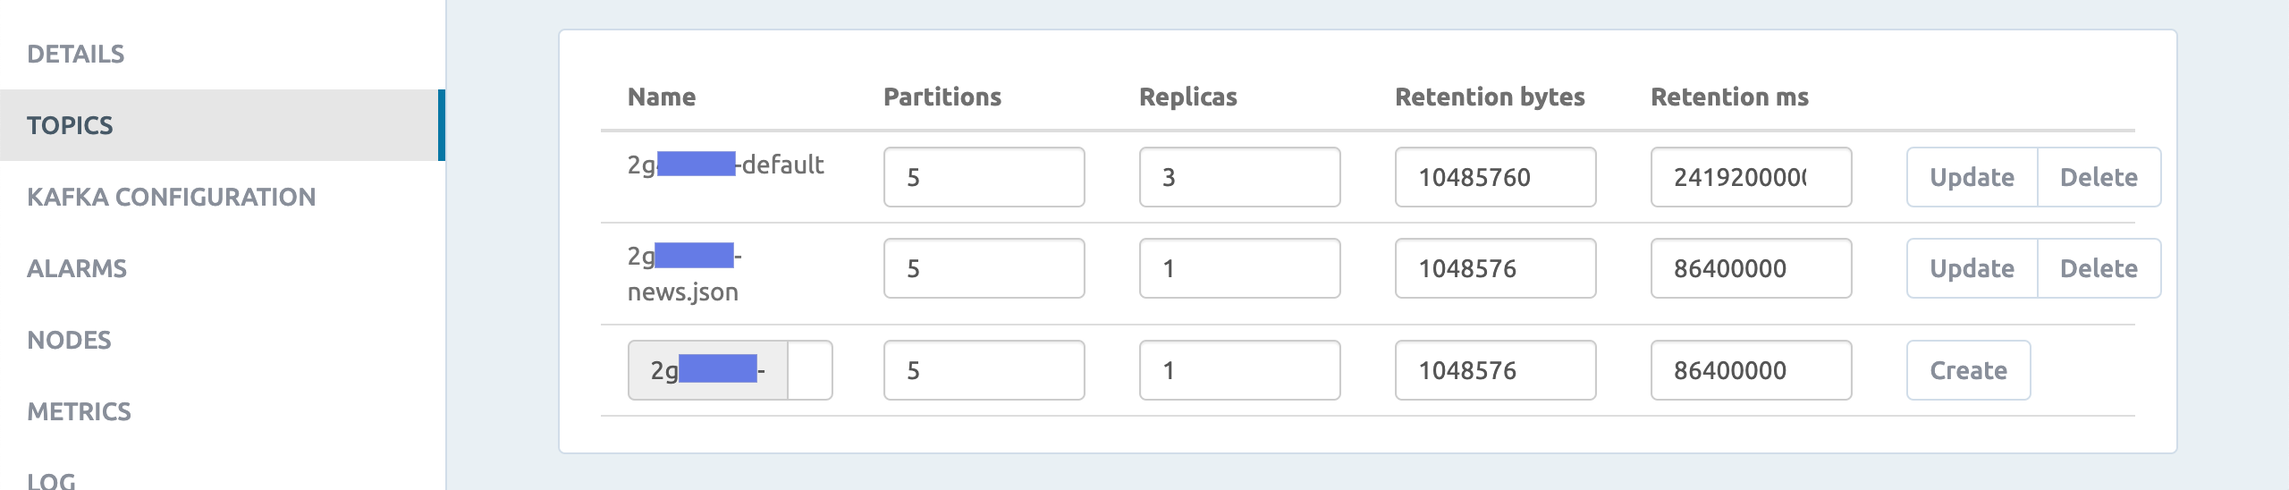
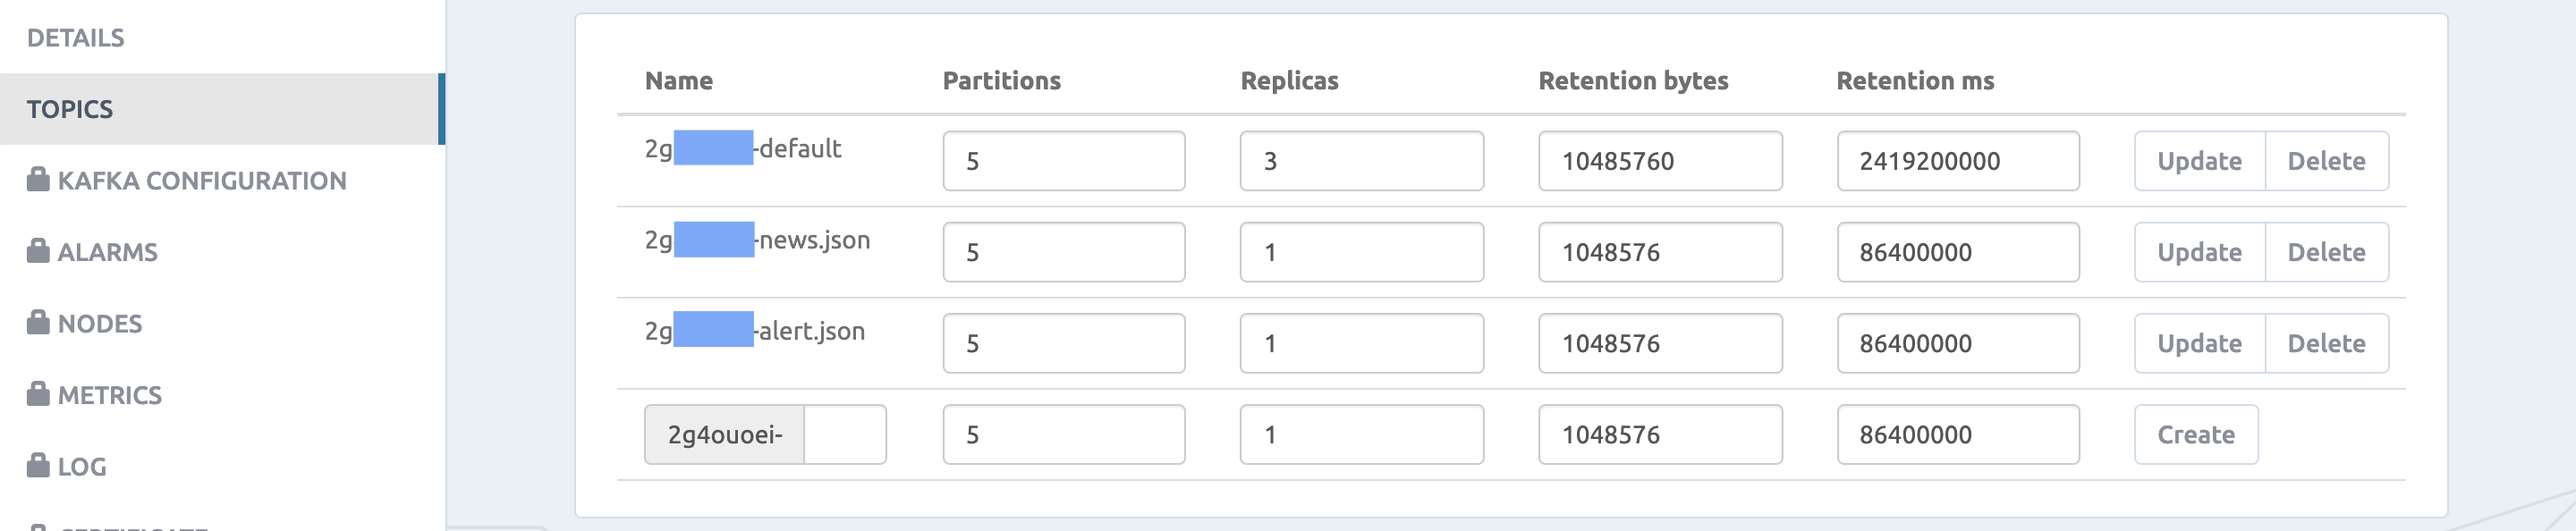
add another Kafka topic called alert

diff --git a/spring-kafka/consumer-kafka/src/main/java/com/mycompany/consumerkafka/kafka/MessageConsumerConfig.java b/spring-kafka/consumer-kafka/src/main/java/com/mycompany/consumerkafka/kafka/MessageConsumerConfig.java
@@ -1,5 +1,6 @@
 package com.mycompany.consumerkafka.kafka;
 
+import com.mycompany.consumerkafka.domain.Alert;
 import com.mycompany.consumerkafka.domain.News;
 import lombok.RequiredArgsConstructor;
 import org.apache.kafka.clients.consumer.ConsumerConfig;
@@ -18,25 +19,40 @@ import java.util.Map;
 @RequiredArgsConstructor
 @EnableKafka
 @Configuration
-public class NewsConsumerConfig {
+public class MessageConsumerConfig {
 
     private final KafkaProperties kafkaProperties;
 
     @Bean
-    public ConcurrentKafkaListenerContainerFactory<String, News> kafkaListenerContainerFactory(
-            ConsumerFactory<String, News> consumerFactory) {
+    public ConcurrentKafkaListenerContainerFactory<String, News> newsKafkaListenerContainerFactory() {
         ConcurrentKafkaListenerContainerFactory<String, News> factory = new ConcurrentKafkaListenerContainerFactory<>();
-        factory.setConsumerFactory(consumerFactory);
+        factory.setConsumerFactory(newsConsumerFactory());
         factory.setConcurrency(kafkaProperties.getListener().getConcurrency());
         return factory;
     }
 
     @Bean
-    ConsumerFactory<String, News> consumerFactory() {
+    ConsumerFactory<String, News> newsConsumerFactory() {
         Map<String, Object> props = kafkaProperties.buildConsumerProperties();
         props.put(ConsumerConfig.KEY_DESERIALIZER_CLASS_CONFIG, StringDeserializer.class);
         props.put(ConsumerConfig.VALUE_DESERIALIZER_CLASS_CONFIG, JsonDeserializer.class);
         return new DefaultKafkaConsumerFactory<>(props, new StringDeserializer(), new JsonDeserializer<>(News.class));
+    }
+
+    @Bean
+    public ConcurrentKafkaListenerContainerFactory<String, Alert> alertKafkaListenerContainerFactory() {
+        ConcurrentKafkaListenerContainerFactory<String, Alert> factory = new ConcurrentKafkaListenerContainerFactory<>();
+        factory.setConsumerFactory(alertConsumerFactory());
+        factory.setConcurrency(kafkaProperties.getListener().getConcurrency());
+        return factory;
+    }
+
+    @Bean
+    ConsumerFactory<String, Alert> alertConsumerFactory() {
+        Map<String, Object> props = kafkaProperties.buildConsumerProperties();
+        props.put(ConsumerConfig.KEY_DESERIALIZER_CLASS_CONFIG, StringDeserializer.class);
+        props.put(ConsumerConfig.VALUE_DESERIALIZER_CLASS_CONFIG, JsonDeserializer.class);
+        return new DefaultKafkaConsumerFactory<>(props, new StringDeserializer(), new JsonDeserializer<>(Alert.class));
     }
 
 }

diff --git a/spring-kafka/producer-kafka/src/main/java/com/mycompany/producerkafka/kafka/MessageProducerConfig.java b/spring-kafka/producer-kafka/src/main/java/com/mycompany/producerkafka/kafka/MessageProducerConfig.java
@@ -21,12 +21,12 @@ import java.util.Map;
 
 @RequiredArgsConstructor
 @Configuration
-public class NewsProducerConfig {
+public class MessageProducerConfig {
 
     private final KafkaProperties kafkaProperties;
 
     @Bean
-    ProducerFactory<String, News> producerFactory() {
+    ProducerFactory<String, Object> producerFactory() {
         Map<String, Object> props = kafkaProperties.buildProducerProperties();
         props.put(ProducerConfig.KEY_SERIALIZER_CLASS_CONFIG, StringSerializer.class);
         props.put(ProducerConfig.VALUE_SERIALIZER_CLASS_CONFIG, JsonSerializer.class);
@@ -35,7 +35,7 @@ public class NewsProducerConfig {
     }
 
     @Bean
-    public KafkaTemplate<String, News> kafkaTemplate(ProducerFactory<String, News> producerFactory) {
+    public KafkaTemplate<String, Object> kafkaTemplate(ProducerFactory<String, Object> producerFactory) {
         return new KafkaTemplate<>(producerFactory);
     }
 
@@ -52,9 +52,16 @@ public class NewsProducerConfig {
 
     @Bean
     @Profile("!cloudkarafka")
-    public NewTopic newTopic() {
+    public NewTopic newsTopic() {
         Map<String, String> producerProperties = kafkaProperties.getProducer().getProperties();
-        return new NewTopic(producerProperties.get("topic"), Integer.parseInt(producerProperties.get("num-partitions")), (short) 1);
+        return new NewTopic(producerProperties.get("news-topic"), Integer.parseInt(producerProperties.get("num-partitions")), (short) 1);
+    }
+
+    @Bean
+    @Profile("!cloudkarafka")
+    public NewTopic alertTopic() {
+        Map<String, String> producerProperties = kafkaProperties.getProducer().getProperties();
+        return new NewTopic(producerProperties.get("alert-topic"), Integer.parseInt(producerProperties.get("num-partitions")), (short) 1);
     }
 
 }

diff --git a/spring-cloud-stream/producer-cloud-stream/src/main/java/com/mycompany/producercloudstream/rest/NewsController.java b/spring-cloud-stream/producer-cloud-stream/src/main/java/com/mycompany/producercloudstream/rest/NewsController.java
@@ -1,7 +1,9 @@
 package com.mycompany.producercloudstream.rest;
 
+import com.mycompany.producercloudstream.domain.Alert;
 import com.mycompany.producercloudstream.domain.News;
-import com.mycompany.producercloudstream.kafka.NewsProducer;
+import com.mycompany.producercloudstream.kafka.MessageProducer;
+import com.mycompany.producercloudstream.rest.dto.CreateAlertDto;
 import com.mycompany.producercloudstream.rest.dto.CreateNewsDto;
 import lombok.RequiredArgsConstructor;
 import org.springframework.web.bind.annotation.PostMapping;
@@ -14,15 +16,22 @@ import java.util.UUID;
 
 @RequiredArgsConstructor
 @RestController
-@RequestMapping("/api/news")
+@RequestMapping("/api")
 public class NewsController {
 
-    private final NewsProducer newsProducer;
+    private final MessageProducer messageProducer;
 
-    @PostMapping
+    @PostMapping("/news")
     public String publishNews(@Valid @RequestBody CreateNewsDto createNewsDto) {
         String id = UUID.randomUUID().toString();
-        newsProducer.send(new News(id, createNewsDto.getSource(), createNewsDto.getTitle()));
+        messageProducer.send(new News(id, createNewsDto.getSource(), createNewsDto.getTitle()));
+        return id;
+    }
+
+    @PostMapping("/alert")
+    public String publishAlert(@Valid @RequestBody CreateAlertDto createAlertDto) {
+        String id = UUID.randomUUID().toString();
+        messageProducer.send(new Alert(id, createAlertDto.getLevel(), createAlertDto.getMessage()));
         return id;
     }
 

diff --git a/spring-kafka/consumer-kafka/src/main/java/com/mycompany/consumerkafka/kafka/MessageConsumer.java b/spring-kafka/consumer-kafka/src/main/java/com/mycompany/consumerkafka/kafka/MessageConsumer.java
@@ -1,0 +1,33 @@
+package com.mycompany.consumerkafka.kafka;
+
+import com.mycompany.consumerkafka.domain.Alert;
+import com.mycompany.consumerkafka.domain.News;
+import lombok.extern.slf4j.Slf4j;
+import org.springframework.kafka.annotation.KafkaListener;
+import org.springframework.kafka.listener.adapter.ConsumerRecordMetadata;
+import org.springframework.messaging.handler.annotation.Payload;
+import org.springframework.stereotype.Service;
+
+@Slf4j
+@Service
+public class MessageConsumer {
+
+    @KafkaListener(
+            topics = "${spring.kafka.consumer.news-topic}",
+            groupId = "${spring.kafka.consumer.group-id}",
+            containerFactory = "newsKafkaListenerContainerFactory")
+    public void listenNews(@Payload News news, ConsumerRecordMetadata metadata) {
+        log.info("Received message\n---\nTOPIC: {}; PARTITION: {}; OFFSET: {};\nPAYLOAD: {}\n---",
+                metadata.topic(), metadata.partition(), metadata.offset(), news);
+    }
+
+    @KafkaListener(
+            topics = "${spring.kafka.consumer.alert-topic}",
+            groupId = "${spring.kafka.consumer.group-id}",
+            containerFactory = "alertKafkaListenerContainerFactory")
+    public void listenAlert(@Payload Alert alert, ConsumerRecordMetadata metadata) {
+        log.info("Received message\n---\nTOPIC: {}; PARTITION: {}; OFFSET: {};\nPAYLOAD: {}\n---",
+                metadata.topic(), metadata.partition(), metadata.offset(), alert);
+    }
+
+}

diff --git a/spring-kafka/producer-kafka/src/main/java/com/mycompany/producerkafka/rest/NewsController.java b/spring-kafka/producer-kafka/src/main/java/com/mycompany/producerkafka/rest/NewsController.java
@@ -1,7 +1,9 @@
 package com.mycompany.producerkafka.rest;
 
+import com.mycompany.producerkafka.domain.Alert;
 import com.mycompany.producerkafka.domain.News;
-import com.mycompany.producerkafka.kafka.NewsProducer;
+import com.mycompany.producerkafka.kafka.MessageProducer;
+import com.mycompany.producerkafka.rest.dto.CreateAlertDto;
 import com.mycompany.producerkafka.rest.dto.CreateNewsDto;
 import lombok.RequiredArgsConstructor;
 import org.springframework.web.bind.annotation.PostMapping;
@@ -14,15 +16,22 @@ import java.util.UUID;
 
 @RequiredArgsConstructor
 @RestController
-@RequestMapping("/api/news")
+@RequestMapping("/api")
 public class NewsController {
 
-    private final NewsProducer newsProducer;
+    private final MessageProducer messageProducer;
 
-    @PostMapping
+    @PostMapping("/news")
     public String publishNews(@Valid @RequestBody CreateNewsDto createNewsDto) {
         String id = UUID.randomUUID().toString();
-        newsProducer.send(new News(id, createNewsDto.getSource(), createNewsDto.getTitle()));
+        messageProducer.send(new News(id, createNewsDto.getSource(), createNewsDto.getTitle()));
+        return id;
+    }
+
+    @PostMapping("/alert")
+    public String publishAlert(@Valid @RequestBody CreateAlertDto createAlertDto) {
+        String id = UUID.randomUUID().toString();
+        messageProducer.send(new Alert(id, createAlertDto.getLevel(), createAlertDto.getMessage()));
         return id;
     }
 

diff --git a/spring-cloud-stream/producer-cloud-stream/src/main/java/com/mycompany/producercloudstream/kafka/MessageProducer.java b/spring-cloud-stream/producer-cloud-stream/src/main/java/com/mycompany/producercloudstream/kafka/MessageProducer.java
@@ -1,5 +1,6 @@
 package com.mycompany.producercloudstream.kafka;
 
+import com.mycompany.producercloudstream.domain.Alert;
 import com.mycompany.producercloudstream.domain.News;
 import lombok.RequiredArgsConstructor;
 import lombok.extern.slf4j.Slf4j;
@@ -12,19 +13,31 @@ import org.springframework.stereotype.Component;
 @Slf4j
 @RequiredArgsConstructor
 @Component
-public class NewsProducer {
+public class MessageProducer {
 
     @Value("${spring.cloud.stream.bindings.news-out-0.destination}")
-    private String kafkaTopic;
+    private String newsKafkaTopic;
+
+    @Value("${spring.cloud.stream.bindings.alert-out-0.destination}")
+    private String alertKafkaTopic;
 
     private final StreamBridge streamBridge;
 
     public void send(News news) {
-        log.info("Sending News '{}' to topic '{}'", news, kafkaTopic);
+        log.info("Sending News '{}' to topic '{}'", news, newsKafkaTopic);
 
         Message<News> message = MessageBuilder.withPayload(news)
                 .setHeader("partitionKey", news.getId())
                 .build();
         streamBridge.send("news-out-0", message);
+    }
+
+    public void send(Alert alert) {
+        log.info("Sending News '{}' to topic '{}'", alert, alertKafkaTopic);
+
+        Message<Alert> message = MessageBuilder.withPayload(alert)
+                .setHeader("partitionKey", alert.getId())
+                .build();
+        streamBridge.send("alert-out-0", message);
     }
 }

diff --git a/spring-kafka/producer-kafka/src/main/java/com/mycompany/producerkafka/kafka/MessageProducer.java b/spring-kafka/producer-kafka/src/main/java/com/mycompany/producerkafka/kafka/MessageProducer.java
@@ -1,5 +1,6 @@
 package com.mycompany.producerkafka.kafka;
 
+import com.mycompany.producerkafka.domain.Alert;
 import com.mycompany.producerkafka.domain.News;
 import lombok.RequiredArgsConstructor;
 import lombok.extern.slf4j.Slf4j;
@@ -10,15 +11,21 @@ import org.springframework.stereotype.Service;
 @Slf4j
 @RequiredArgsConstructor
 @Service
-public class NewsProducer {
+public class MessageProducer {
 
     private final KafkaProperties kafkaProperties;
-    private final KafkaTemplate<String, News> kafkaTemplate;
+    private final KafkaTemplate<String, Object> kafkaTemplate;
 
     public void send(News news) {
-        String kafkaTopic = kafkaProperties.getProducer().getProperties().get("topic");
+        String kafkaTopic = kafkaProperties.getProducer().getProperties().get("news-topic");
         log.info("Sending News '{}' to topic '{}'", news, kafkaTopic);
         kafkaTemplate.send(kafkaTopic, news.getId(), news);
+    }
+
+    public void send(Alert alert) {
+        String kafkaTopic = kafkaProperties.getProducer().getProperties().get("alert-topic");
+        log.info("Sending Alert '{}' to topic '{}'", alert, kafkaTopic);
+        kafkaTemplate.send(kafkaTopic, alert.getId(), alert);
     }
 
 }

diff --git a/spring-cloud-stream/consumer-cloud-stream/src/main/java/com/mycompany/consumercloudstream/kafka/MessageConsumer.java b/spring-cloud-stream/consumer-cloud-stream/src/main/java/com/mycompany/consumercloudstream/kafka/MessageConsumer.java
@@ -1,5 +1,6 @@
 package com.mycompany.consumercloudstream.kafka;
 
+import com.mycompany.consumercloudstream.domain.Alert;
 import com.mycompany.consumercloudstream.domain.News;
 import lombok.extern.slf4j.Slf4j;
 import org.springframework.context.annotation.Bean;
@@ -12,7 +13,7 @@ import java.util.function.Consumer;
 
 @Slf4j
 @Component
-public class NewsConsumer {
+public class MessageConsumer {
 
     @Bean
     public Consumer<Message<News>> news() {
@@ -26,4 +27,18 @@ public class NewsConsumer {
                     news);
         };
     }
+
+    @Bean
+    public Consumer<Message<Alert>> alert() {
+        return message -> {
+            Alert alert = message.getPayload();
+            MessageHeaders messageHeaders = message.getHeaders();
+            log.info("Received message\n---\nTOPIC: {}; PARTITION: {}; OFFSET: {};\nPAYLOAD: {}\n---",
+                    messageHeaders.get(KafkaHeaders.RECEIVED_TOPIC, String.class),
+                    messageHeaders.get(KafkaHeaders.RECEIVED_PARTITION_ID, Integer.class),
+                    messageHeaders.get(KafkaHeaders.OFFSET, Long.class),
+                    alert);
+        };
+    }
+
 }

diff --git a/spring-cloud-stream/producer-cloud-stream/src/main/java/com/mycompany/producercloudstream/rest/dto/CreateAlertDto.java b/spring-cloud-stream/producer-cloud-stream/src/main/java/com/mycompany/producercloudstream/rest/dto/CreateAlertDto.java
@@ -1,0 +1,19 @@
+package com.mycompany.producercloudstream.rest.dto;
+
+import lombok.Data;
+
+import javax.validation.constraints.Max;
+import javax.validation.constraints.Min;
+import javax.validation.constraints.NotBlank;
+
+@Data
+public class CreateAlertDto {
+
+    @Min(1)
+    @Max(5)
+    private Integer level;
+
+    @NotBlank
+    private String message;
+
+}

diff --git a/spring-kafka/producer-kafka/src/main/java/com/mycompany/producerkafka/rest/dto/CreateAlertDto.java b/spring-kafka/producer-kafka/src/main/java/com/mycompany/producerkafka/rest/dto/CreateAlertDto.java
@@ -1,0 +1,19 @@
+package com.mycompany.producerkafka.rest.dto;
+
+import lombok.Data;
+
+import javax.validation.constraints.Max;
+import javax.validation.constraints.Min;
+import javax.validation.constraints.NotBlank;
+
+@Data
+public class CreateAlertDto {
+
+    @Min(1)
+    @Max(5)
+    private Integer level;
+
+    @NotBlank
+    private String message;
+
+}

diff --git a/spring-cloud-stream/consumer-cloud-stream/src/main/java/com/mycompany/consumercloudstream/domain/Alert.java b/spring-cloud-stream/consumer-cloud-stream/src/main/java/com/mycompany/consumercloudstream/domain/Alert.java
@@ -1,0 +1,12 @@
+package com.mycompany.consumercloudstream.domain;
+
+import lombok.Data;
+
+@Data
+public class Alert {
+
+    private String id;
+    private Integer level;
+    private String message;
+
+}

diff --git a/spring-kafka/consumer-kafka/src/main/java/com/mycompany/consumerkafka/domain/Alert.java b/spring-kafka/consumer-kafka/src/main/java/com/mycompany/consumerkafka/domain/Alert.java
@@ -1,0 +1,12 @@
+package com.mycompany.consumerkafka.domain;
+
+import lombok.Data;
+
+@Data
+public class Alert {
+
+    private String id;
+    private Integer level;
+    private String message;
+
+}
